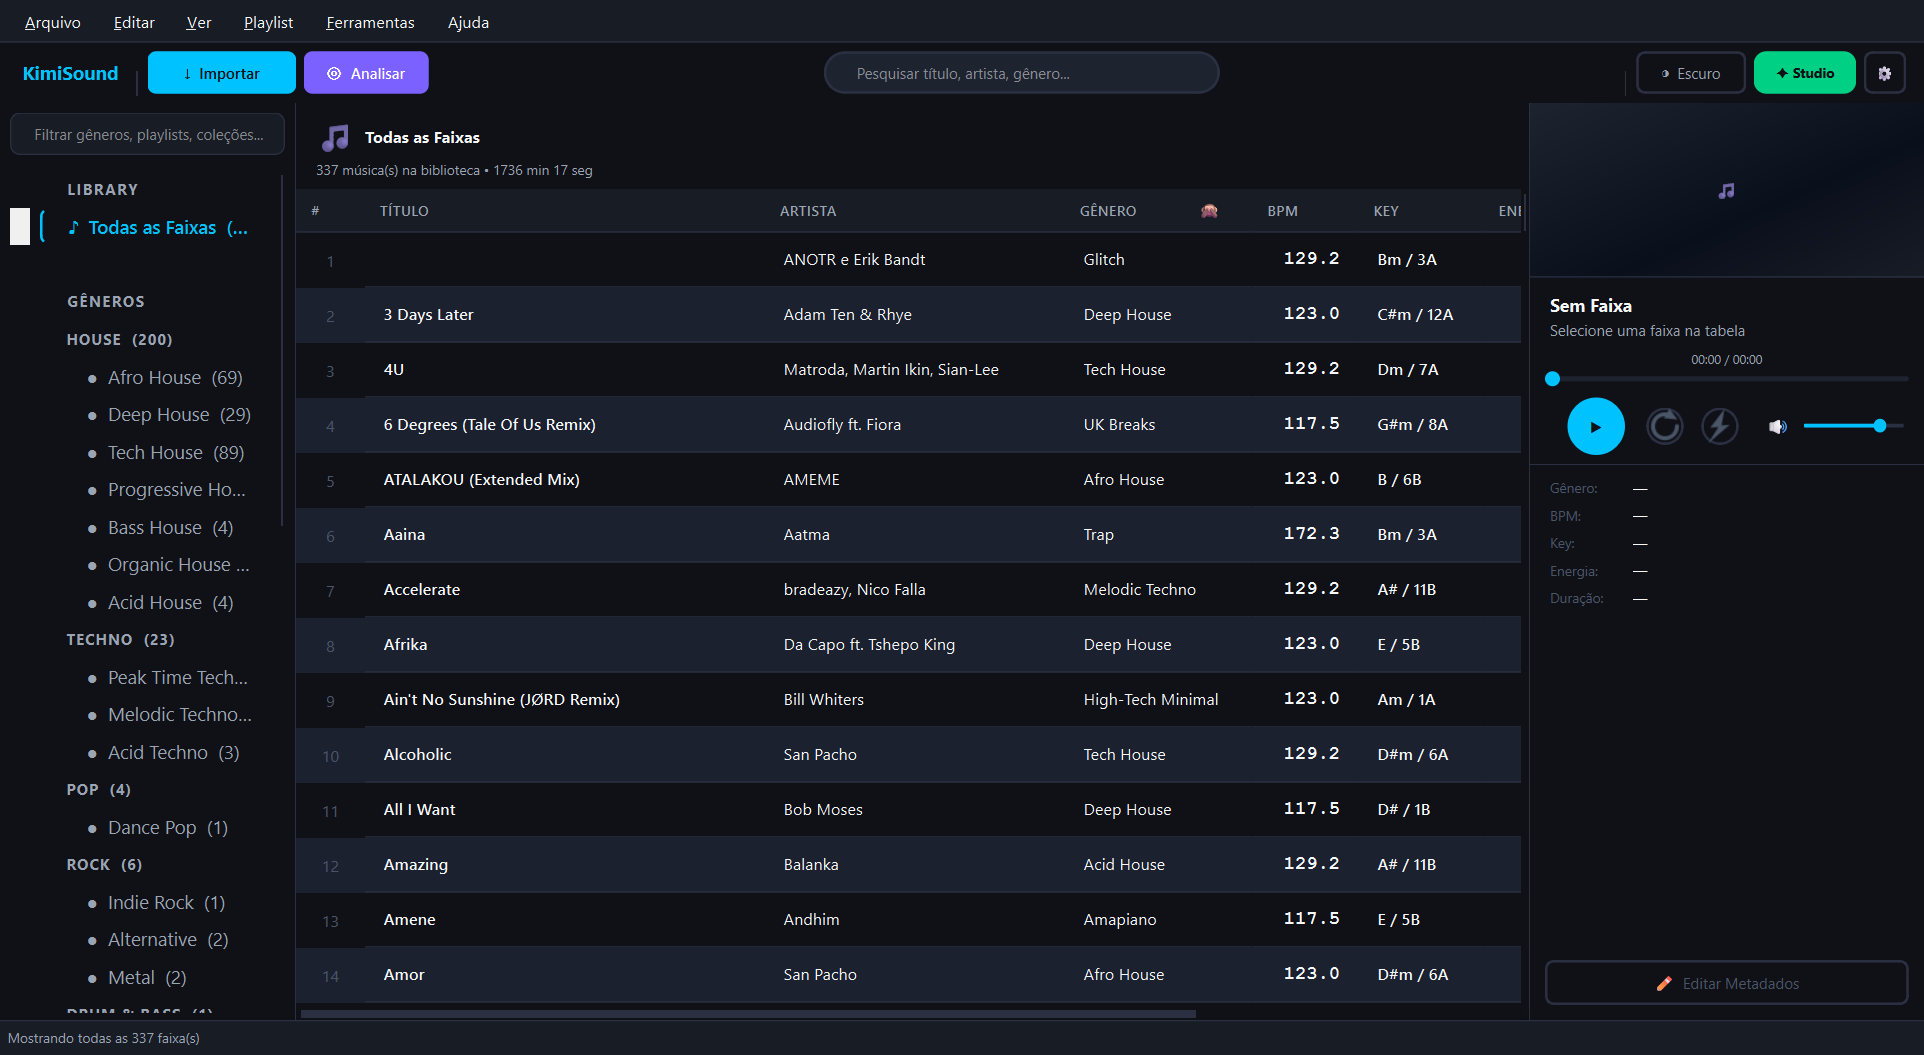
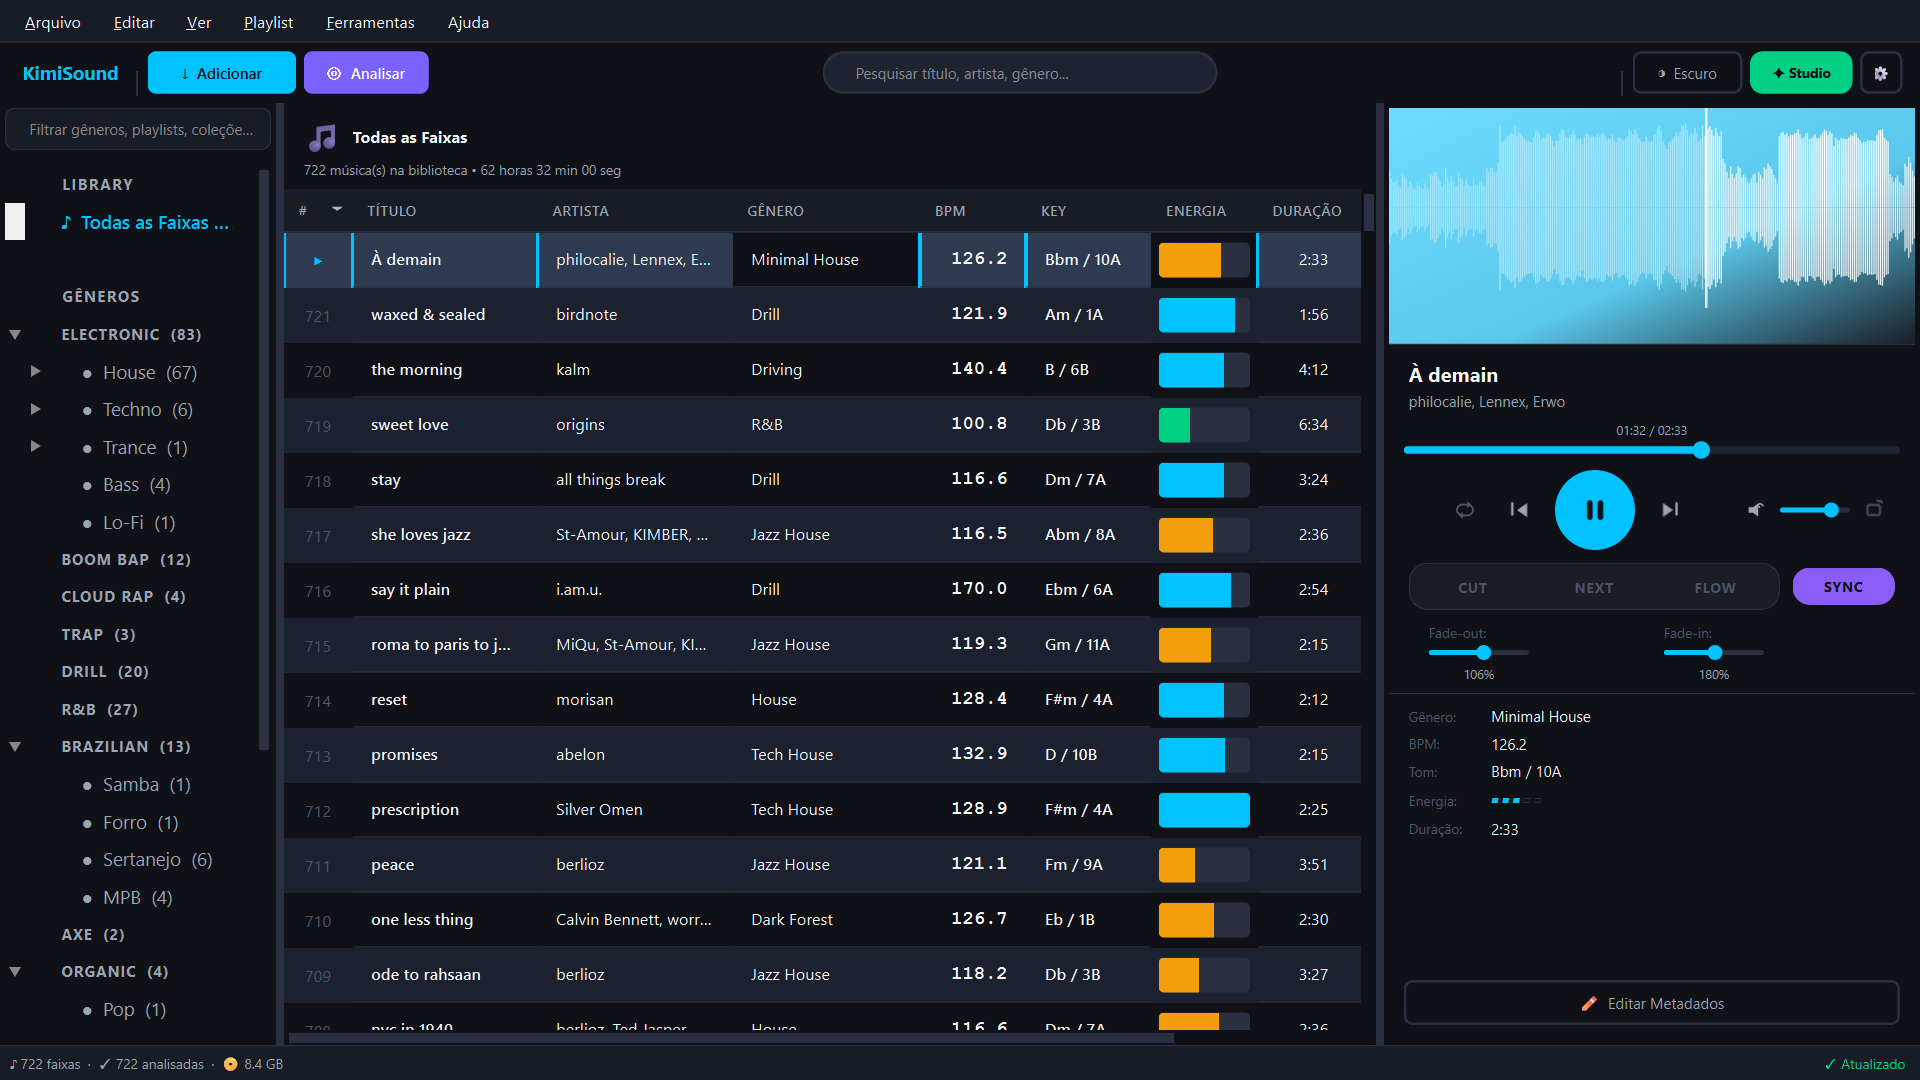
Correção imagens atuais landinpage

diff --git a/index.html b/index.html
@@ -128,9 +128,9 @@
         <div class="app-frame">
           <div class="app-titlebar">
             <span class="tl-dot r"></span><span class="tl-dot y"></span><span class="tl-dot g"></span>
-            <span class="tl-title">KimiSound — Warm Up Fino · 15 faixas · Flow 82%</span>
+            <span class="tl-title">KimiSound — Todas as Faixas · 722 faixas · 62 horas 32 min</span>
           </div>
-          <img src="uploads/01_main_window_all_tracks_dark.png" alt="Playlist Warm Up Fino com coluna Flow Score por faixa e dados reais" />
+          <img src="uploads/01_main_window_all_tracks_dark.png" alt="Playlist Todas as Faixas com coluna Flow Score por faixa e dados reais" />
           <div class="app-scan"></div>
         </div>
       </div>
@@ -444,8 +444,8 @@
       </div>
       <div class="dd-image">
         <div class="app-frame app-frame-tilt">
-          <div class="app-titlebar"><span class="tl-dot r"></span><span class="tl-dot y"></span><span class="tl-dot g"></span><span class="tl-title">Playlist · Warm Up Fino · Flow 82%</span></div>
-          <img src="uploads/01_main_window_all_tracks_dark.png" alt="Playlist real com Flow Score por faixa e registros" />
+          <div class="app-titlebar"><span class="tl-dot r"></span><span class="tl-dot y"></span><span class="tl-dot g"></span><span class="tl-title">Playlist · Warm Up Jazz · Flow 76%</span></div>
+          <img src="assets/app-playlist-flow.png" alt="Playlist real com Flow Score por faixa e registros" />
           <div class="dd-glow"></div>
         </div>
       </div>